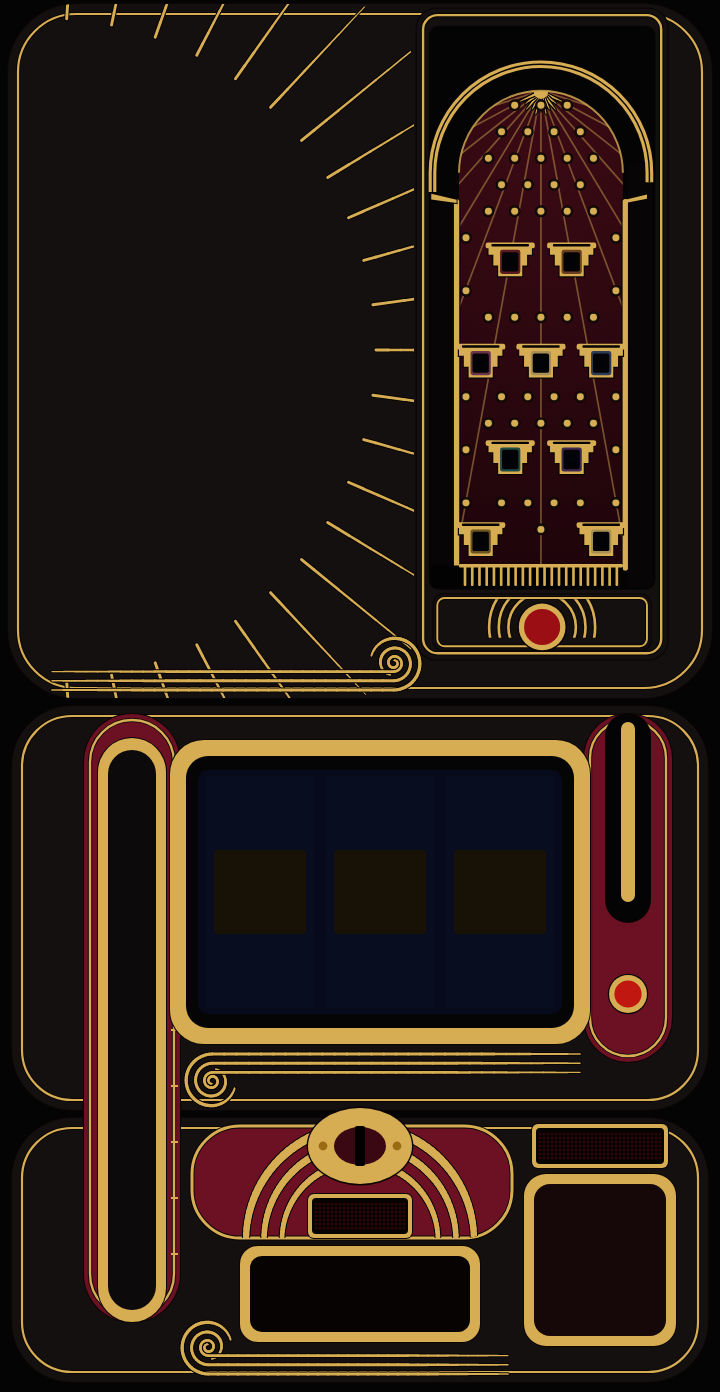
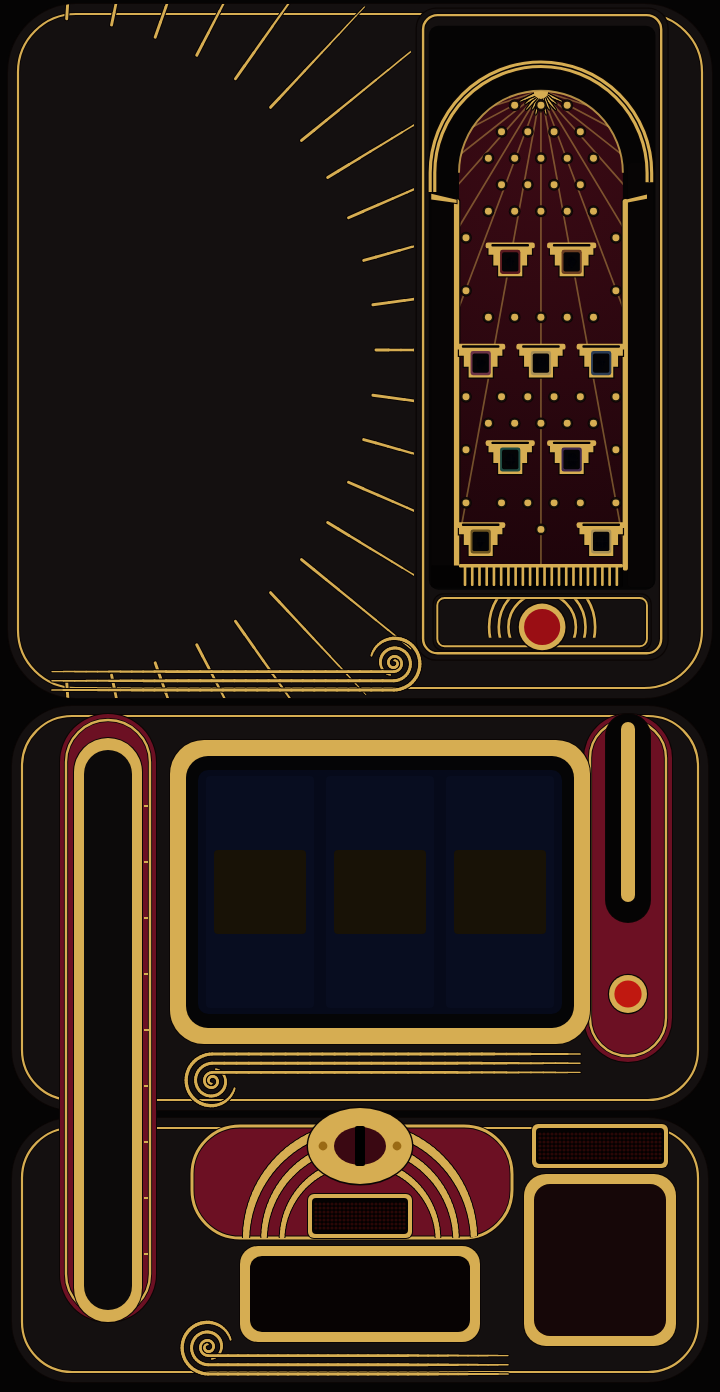
Алчность v2: колба — полная до самого верха, сдвинута влево с рамки экрана (корпус перепечён)
Claude-Session: https://claude.ai/code/session_014b7WGtUGzHT9duRP7NWniS

Changed region(s): [[0.0611, 0.4943, 0.275, 0.9576]]

diff --git a/src/minigames/greed/greed-lux-bottom.js b/src/minigames/greed/greed-lux-bottom.js
@@ -326,9 +326,13 @@ Object.assign(GreedLux, {
     // ---------- шкала ----------
     meterSet(v) { if (this._bot && this._bot.met) this._bot.met.T = Math.max(0, Math.min(1, v)); },
     // уровень жидкости → y поверхности
+    // Полная — до самого верха колбы: раньше верх стоял на 5 ниже, а у
+    // колбы верх круглый — полная шкала оставляла тёмный купол и читалась
+    // «не долито» (игрок, 19.11). Срез — по прямоугольнику, скругление даёт
+    // сама форма жидкости (liquid-*).
     meterY(v) {
         const q = this.meta.live.liquid;
-        return q[1] + q[3] - 3 - (q[3] - 8) * v;
+        return q[1] + q[3] * (1 - v);
     },
     meterStep(now) {
         const M = this._bot && this._bot.met, K = this.BOT.meter;

diff --git a/tools/greed-lux-sketch/machine.py b/tools/greed-lux-sketch/machine.py
@@ -78,7 +78,7 @@ def add_poly(pts, rise, blur):
 T1, T2, T3 = (4, -55, 356, 292, 34), (6, 296, 354, 498, 30), (6, 502, 354, 634, 30)
 # колонна рычага, паз, шар и лампа готовности — на одной оси x 314
 # (игрок: лампа под рычагом съехала — была на 325 при рычаге на 314)
-PIL_L, COL_R = (42, 300, 90, 604, 24), (292, 300, 336, 474, 22)
+PIL_L, COL_R = (30, 300, 78, 604, 24), (292, 300, 336, 474, 22)
 WH = (22, 118, 150)
 PB = (212, -46, 334, 274, 12)
 BEZ, SCRR = (85, 313, 295, 465, 17), (99, 328, 281, 450, 5)
@@ -87,7 +87,9 @@ SN = (180, 516, 26, 19)
 BET, BAL = (156, 542, 204, 560), (268, 507, 332, 525)
 TRAY, PIG = (120, 566, 240, 614, 9), (262, 530, 338, 616, 11)
 LAMP, BALL, BTN = (314, 440), (314, 299, 19), (273, 243, 12)   # лампа — посередине между низом паза (404) и низом колонны (474)
-MET = (54, 318, 78, 598)
+# колба сдвинута на 12 влево (игрок, 19.11): столб до 90 заходил на рамку
+# экрана (BEZ с 85), риски шкалы лежали на рамке, а слева было пусто до 24
+MET = (42, 318, 66, 598)
 
 def arch_sd():
     return np.minimum(sd_rrect(222, 45, 324, 212, 3), np.hypot(PX - 273, PY - 45) - 51)
@@ -134,7 +136,7 @@ def build_height():
     add(dl - 9.5, 2, 2)
     add(dl - 6.8, 3.2, 6.8, 'circ')
     # шкала: оправа и стеклянная трубка
-    add(sd_rrect(49, 312, 83, 604, 17), 2.4, 2)
+    add(sd_rrect(37, 312, 71, 604, 17), 2.4, 2)
     add(sd_rrect(*MET, 12), 3.2, 12, 'circ')
     # цоколь: вставка, пятачок, табло, лоток, копилка
     add(sd_rrect(*INS), -1.6, 1.6)
@@ -780,7 +782,7 @@ def ball_height():
 
 def meter():
     o = ink_rr(*PIL_L, BUR) + grect(PIL_L[0] + 3, PIL_L[1] + 3, PIL_L[2] - 3, PIL_L[3] - 3, 21, 1.2)
-    o += ink_rr(49, 312, 83, 604, 17, GOLD, 'gold')
+    o += ink_rr(37, 312, 71, 604, 17, GOLD, 'gold')
     x0, y0, x1, y1 = MET
     o += rr(x0, y0, x1, y1, 12, c('#0c0a0a', 'glass'))
     lv = y1 - (y1 - y0) * 0.46
@@ -789,7 +791,7 @@ def meter():
     o += f'<clipPath id="metc"><rect x="{x0}" y="{y0}" width="{x1-x0}" height="{y1-y0}" rx="12"/></clipPath><g clip-path="url(#metc)">'
     o += rr(x0, lv, x1, y1, 0, c('#c07a12', 'glass', '#3a2002'))
     o += rr(x0, lv, x1, lv + 2.2, 0, c('#f6cf6a', 'glass', '#6a4a10'))
-    for bx_, by_, br_ in ((61, 560, 1.6), (70, 520, 1.2), (66, 585, 2.0), (72, 470, 1.0), (60, 500, 1.3)):
+    for bx_, by_, br_ in ((49, 560, 1.6), (58, 520, 1.2), (54, 585, 2.0), (60, 470, 1.0), (48, 500, 1.3)):
         o += f'<circle cx="{bx_}" cy="{by_}" r="{br_}" fill="{c("#ffe9a8", "glass", "#5a4410")}"/>'
     o += '</g>'
     return o + meter_ticks()
@@ -798,7 +800,7 @@ def meter_ticks():
     x0, y0, x1, y1 = MET
     for k in range(1, 10):
         y = y0 + (y1 - y0) * k / 10
-        o += f'<line x1="85.5" y1="{y:.1f}" x2="{89 if k % 5 else 91}" y2="{y:.1f}" stroke="{c(GOLD, "gold")}" stroke-width="1"/>'
+        o += f'<line x1="72" y1="{y:.1f}" x2="{74 if k % 5 else 75.2}" y2="{y:.1f}" stroke="{c(GOLD, "gold")}" stroke-width="1"/>'
     return o
 # Жидкое золото шкалы отдельно (LIVE): столб во всю высоту трубки, игра
 # рисует его срезом до уровня (greed-lux-bottom.js) — свет и отражения стекла

diff --git a/docs/plan/31-greed-premium.md b/docs/plan/31-greed-premium.md
@@ -630,7 +630,9 @@
       пара — две монеты, гарантия — три подменённых). Какие именно — от
       бэкенда (ключи линии + `pair.key`), а не по картинке. Пиксели-брызги,
       отдача и тряска — только от прыгающих.
-   2. **Колба: жижа не доходит до верха, колба налезает на соседей.** Полная
+   2. ✔ 19.11 (полная — до самого верха: срез был на 5 ниже под круглым
+      верхом; колба и столб сдвинуты на 12 влево, риски — на столбе, не на
+      рамке экрана; корпус перепечён) **Колба: жижа не доходит до верха, колба налезает на соседей.** Полная
       шкала не доливает до конца колбы (верх жидкости — `meterY`/`liquid_box()`
       в `machine.py`, высота жидкости режется по карте высот корпуса —
       проверить, где теряется). Сама колба заходит на соседние детали, а слева
